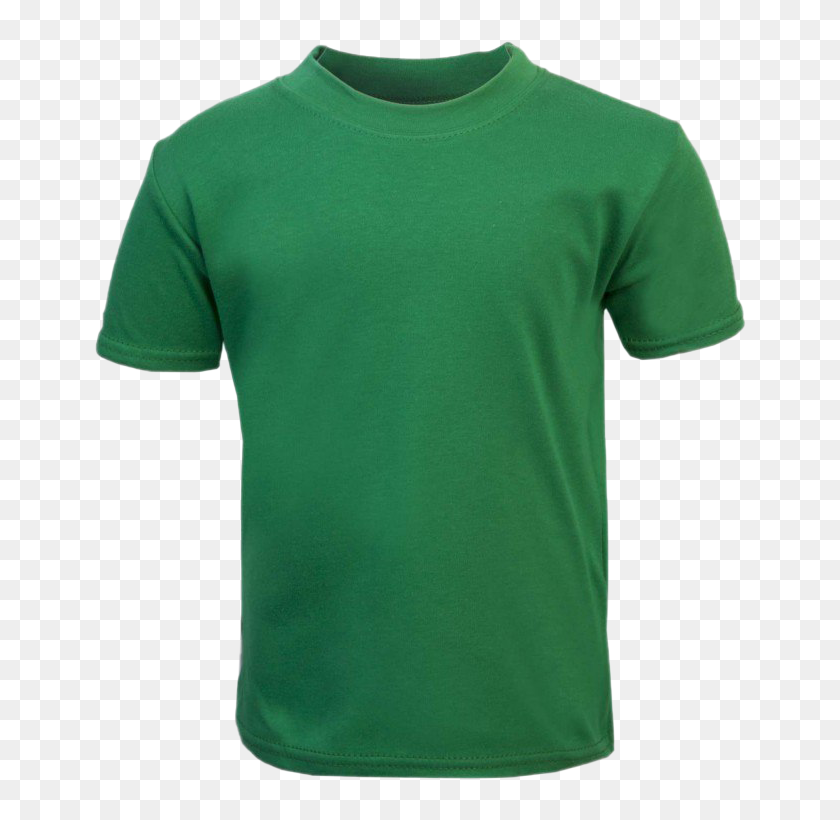
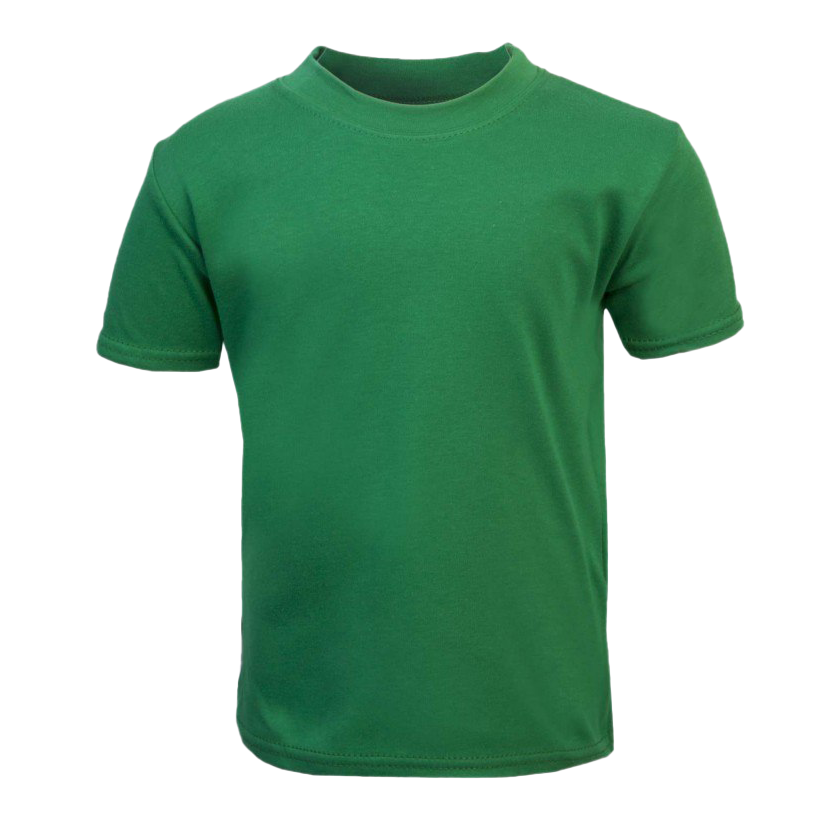
add the cropping for the canvas

Changed region(s): [[0.7119, 0.3963, 0.7429, 0.4268], [0.3405, 0.061, 0.3714, 0.0915], [0.2476, 0.4268, 0.2786, 0.4573]]

diff --git a/src/routes/MakeShirt.js b/src/routes/MakeShirt.js
@@ -31,7 +31,7 @@ import {
 import { ImBold, ImItalic, ImTextWidth, ImTextHeight } from "react-icons/im"
 import { GoTextSize } from "react-icons/go"
 import Picker from "emoji-picker-react"
-import { LazyLoadImage } from "react-lazy-load-image-component"
+// import { LazyLoadImage } from "react-lazy-load-image-component"
 import Svgs from "../components/Svgs"
 import MySlider from "../components/MySlider"
 import MyPicker from "../components/MyPicker"
@@ -119,38 +119,38 @@ function MakeShirt() {
       selectionLineWidth: 3,
       preserveObjectStacking: true,
     })
-    // canvas.freeDrawingBrush.color = "black"
-    // canvas.freeDrawingBrush.strokeLineCap = "round"
-    // canvas.freeDrawingBrush.width = 2
+
     // if the user has visited this page for the first time we show him the onboard tuto
     if (!hasVisitedPage) {
       setVisitedPage(true)
       localStorage.setItem("saw-tuto", true)
     }
+    canvas.setBackgroundImage("/images/shirt-purple.png")
     setCanvas(canvas)
+
     canvas.renderAll()
   }, [hasVisitedPage])
 
   // load image on mount and set image object on state change (for re-render)
 
-  useEffect(() => {
-    canvas && canvas.clear()
-    if (canvas && shirtId) {
-      let tshirt = new fabric.Image(shirtId, {
-        selectable: false,
-        hasControls: false,
-        excludeFromExport: true,
-        hoverCursor: "default",
-        absolutePositioned: true,
-      })
-      tshirt.scaleToWidth(canvas.width)
-      tshirt.scaleToHeight(canvas.height)
-      canvas.centerObject(tshirt)
-      // setShirt(tshirt)
-      canvas.add(tshirt)
-      canvas.renderAll()
-    }
-  }, [canvas, shirtId])
+  // useEffect(() => {
+  //   canvas && canvas.clear()
+  //   if (canvas && shirtId) {
+  //     let tshirt = new fabric.Image(shirtId, {
+  //       selectable: false,
+  //       hasControls: false,
+  //       excludeFromExport: true,
+  //       hoverCursor: "default",
+  //       absolutePositioned: true,
+  //     })
+  //     tshirt.scaleToWidth(canvas.width * 2)
+  //     tshirt.scaleToHeight(canvas.height * 2)
+  //     canvas.centerObject(tshirt)
+  //     // setShirt(tshirt)
+  //     canvas.add(tshirt)
+  //     canvas.renderAll()
+  //   }
+  // }, [canvas, shirtId])
   // custom delete icon on objects
   function deleteshape(eventData, transform) {
     var target = transform.target
@@ -1327,13 +1327,19 @@ function MakeShirt() {
             </div>
           </div>
         )}
-        <div className="px-4 m-5 mx-auto">
-          <canvas
-            ref={canvasRef}
-            height="500px"
-            width="500px"
-            className="border-2 canva border-gray-400 border-dashed   "
-          />
+        <div className="px-4 m-5 mx-auto  relative w-[500px] h-[500px] overflow-visible border-2">
+          <div className="absolute  top-1/2 left-1/2 -translate-x-[50%] -translate-y-[50%] z-20 ">
+            <canvas
+              ref={canvasRef}
+              height="300px"
+              width="210px"
+              className=" canva border-yellow-400 border-dashed border-2 "
+            />
+          </div>
+
+          <div className="absolute left-1/2 -translate-x-[50%] z-10 top-0 h-[500px] w-[500px]">
+            <img src={shirtId} alt="" className="h-[500px] w-[500px] " />
+          </div>
         </div>
         {/* <div className="mr-6 h-96">
           <Canvas className=" h-96   cursor-move">
@@ -1830,11 +1836,12 @@ function MakeShirt() {
                 </p>
                 <div className="flex justify-evenly items-center  flex-wrap bg-white">
                   {sectionImages.url.map((img) => (
-                    <LazyLoadImage
+                    <img
                       src={img}
                       className=" md:h-14 m-2 cursor-pointer  hover:scale-150 transition-all duration-700"
                       onClick={() => addClipImg(img)}
                       key={img}
+                      alt=""
                     />
                   ))}
                 </div>
@@ -2000,6 +2007,7 @@ function MakeShirt() {
               margin: "10px 20px",
             }}
             onClick={() => {
+              canvas && canvas.clear()
               setShirtId(shirt)
               setImage(null)
               setText(null)

diff --git a/src/components/Shirts.js b/src/components/Shirts.js
@@ -1,5 +1,4 @@
 const shirtsArray = [
-  "../images/shirt-black.png",
   "../images/shirt-blue.png",
   "../images/shirt-green.png",
   "../images/shirt-purple.png",
